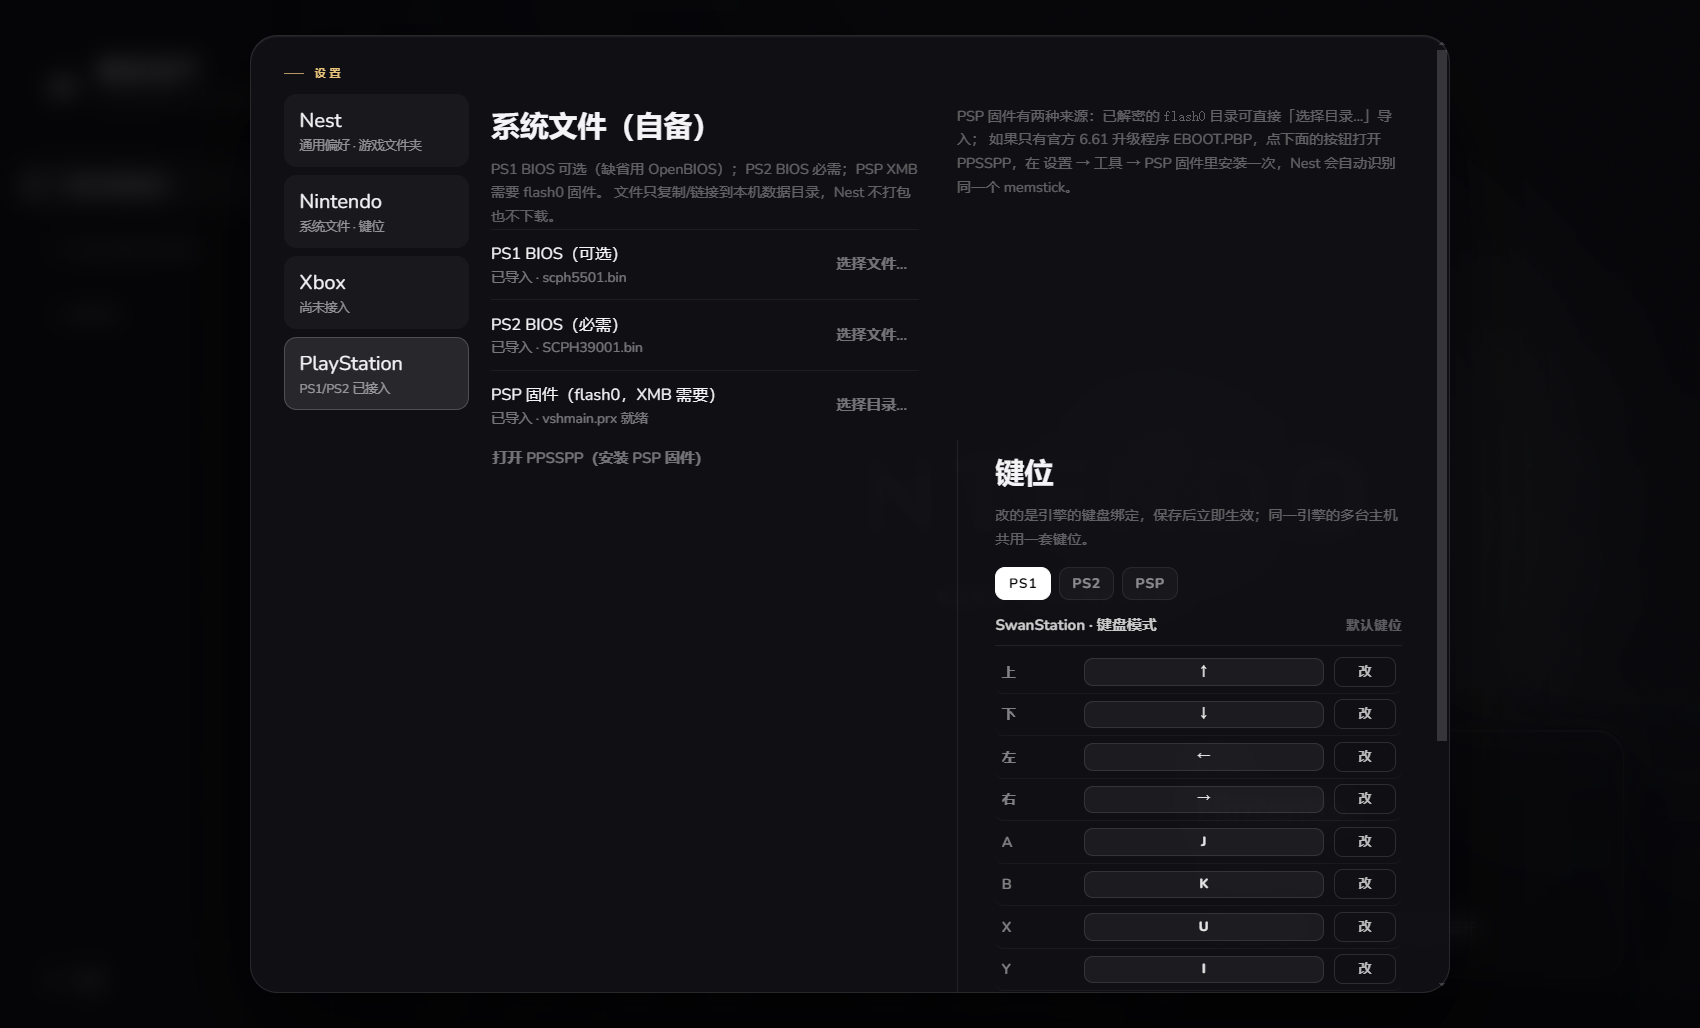
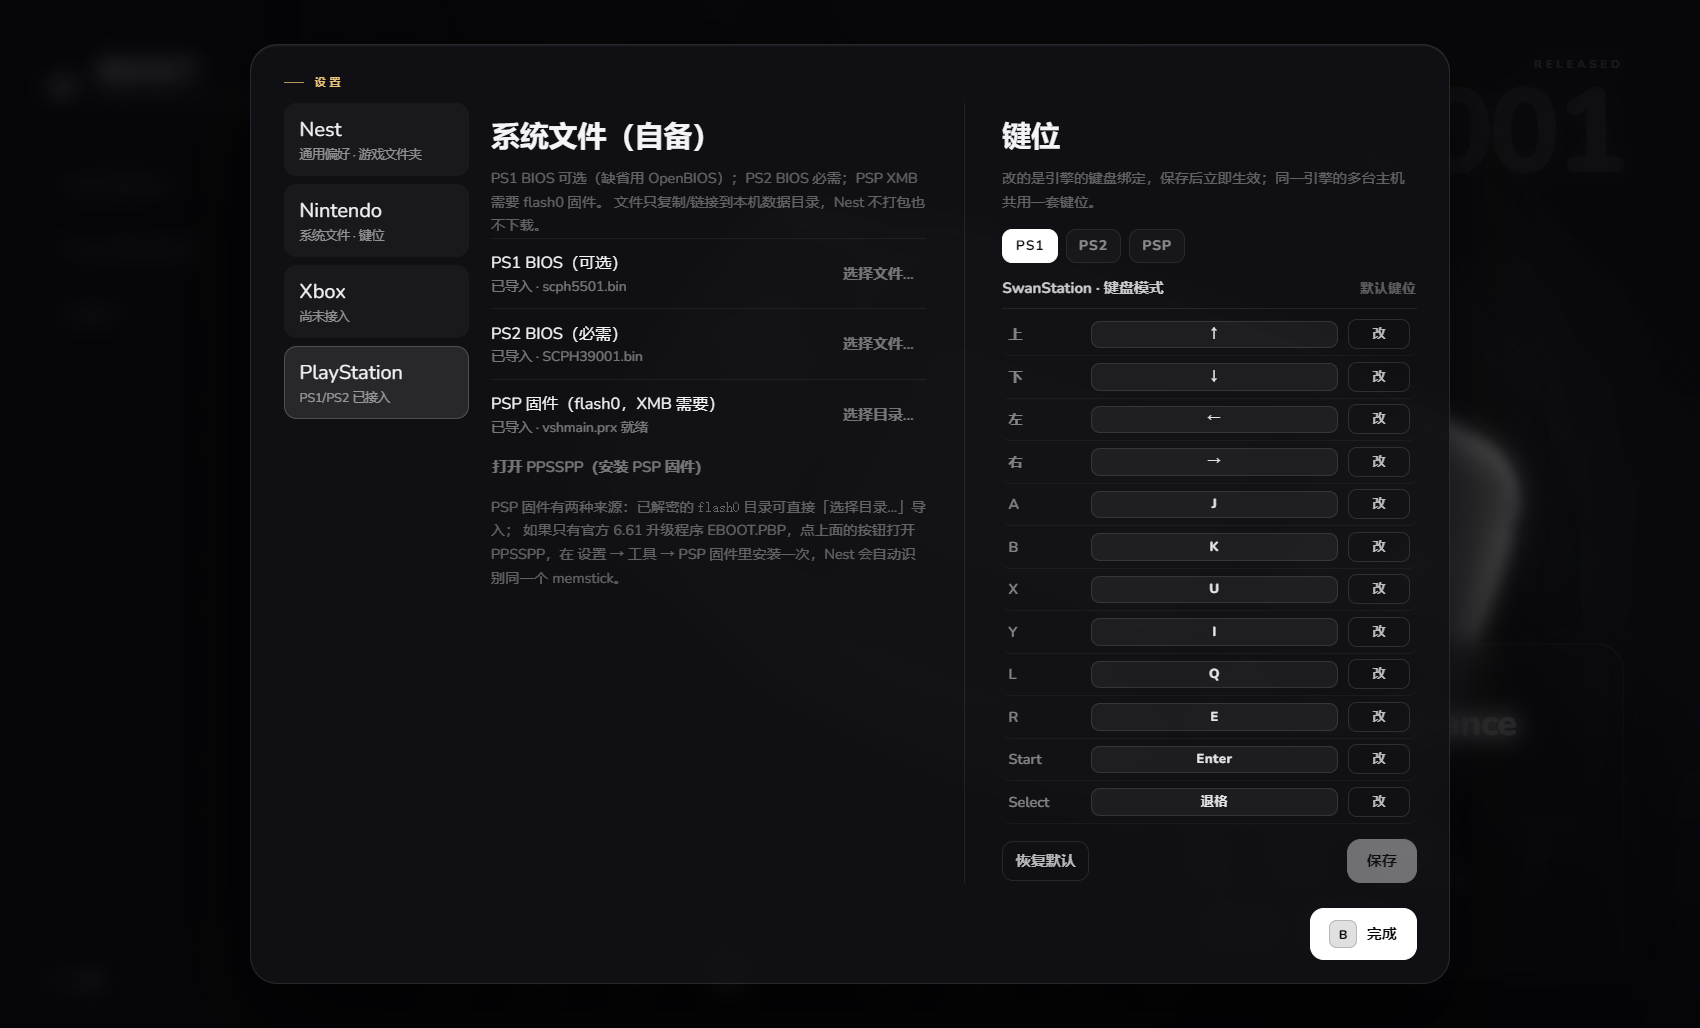
fix(settings): move PSP firmware note under its button and remove layout gap

diff --git a/src/renderer/src/App.tsx b/src/renderer/src/App.tsx
@@ -1688,16 +1688,15 @@ export default function App() {
                         </div>
                       ))}
 
+                    <button className="ghost-btn" onClick={() => void window.nest.openPpsspp()}>
+                      打开 PPSSPP（安装 PSP 固件）
+                    </button>
+                    <p className="dlg-note">
+                      PSP 固件有两种来源：已解密的 <code>flash0</code> 目录可直接「选择目录…」导入；
+                      如果只有官方 6.61 升级程序 EBOOT.PBP，点上面的按钮打开 PPSSPP，在
+                      设置 → 工具 → PSP 固件里安装一次，Nest 会自动识别同一个 memstick。
+                    </p>
                   </div>
-
-                  <p className="dlg-note">
-                    PSP 固件有两种来源：已解密的 <code>flash0</code> 目录可直接「选择目录…」导入；
-                    如果只有官方 6.61 升级程序 EBOOT.PBP，点下面的按钮打开 PPSSPP，在
-                    设置 → 工具 → PSP 固件里安装一次，Nest 会自动识别同一个 memstick。
-                  </p>
-                  <button className="ghost-btn" onClick={() => void window.nest.openPpsspp()}>
-                    打开 PPSSPP（安装 PSP 固件）
-                  </button>
 
                   {renderKeys()}
                 </div>
